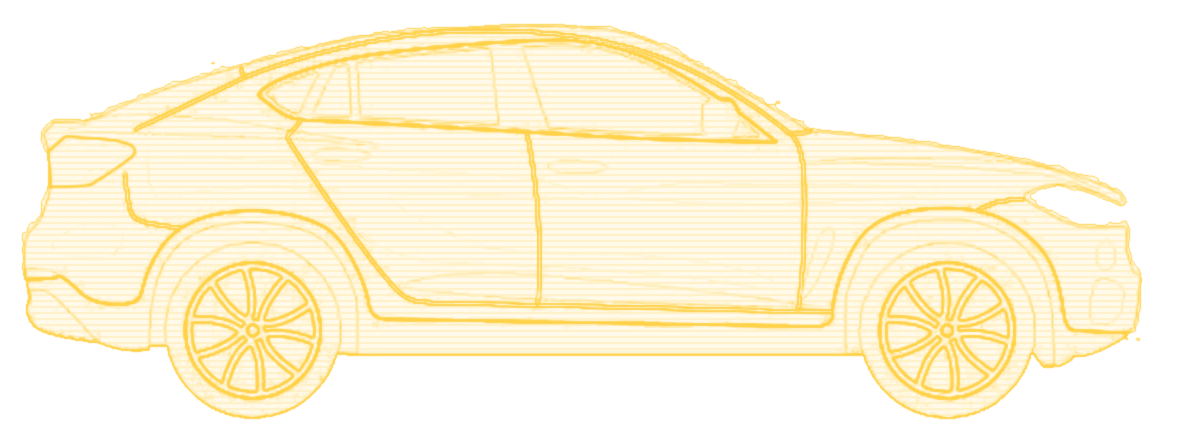
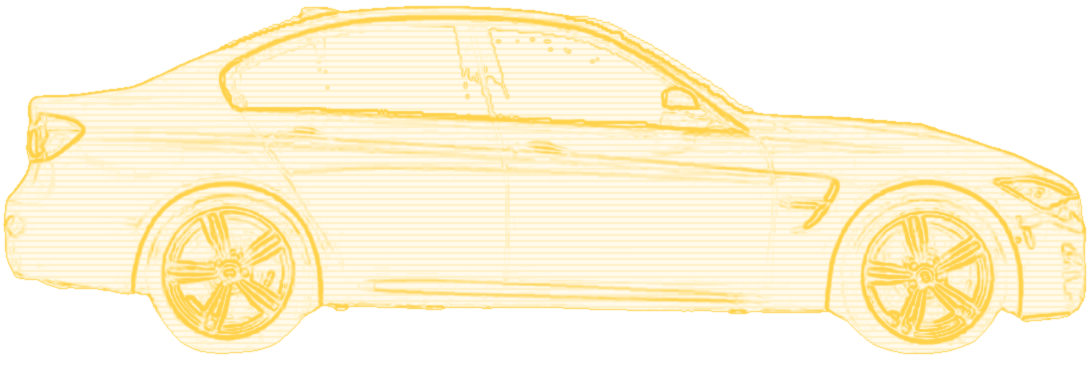
Hero: real car photo instead of the Vexels illustration
Yellow BMW saloon cut out with rembg, mirrored to face right, see-through
glass tinted dark, soft ground shadow; wheel and hotspot positions
re-measured. The Vexels credit line is removed.

diff --git a/src/components/hero/heroScene.ts b/src/components/hero/heroScene.ts
@@ -1,7 +1,7 @@
 /**
  * Three.js hero scene — "live diagnostic scan".
  *
- * The car illustration (public/media/hero-car.png) drives onto a holographic
+ * The car photo (public/media/hero-car.png) drives onto a holographic
  * turntable, wheels turning, and parks. A scanning beam then sweeps across it:
  * behind the beam the car switches to its hologram version (hero-car-holo.png),
  * and diagnostic hotspots ping as the beam reaches them (the engine flags a fault
@@ -19,14 +19,14 @@ export type SceneHandle = { dispose: () => void };
 
 const YELLOW = 0xf5b301;
 
-/** Car image size in scene units (aspect from build-hero-car.mjs: 1180×430). */
+/** Car image size in scene units (aspect from build-hero-car.mjs: 1090×386). */
 const CAR_W = 4.8;
-const CAR_H = CAR_W / (1180 / 430);
+const CAR_H = CAR_W / (1090 / 386);
 /** Image v (0 = top) where the tyres touch the ground. */
-const GROUND_V = 0.955;
+const GROUND_V = 0.909;
 /** Wheel centres and radius, as fractions of the image (u from left, v from top). */
-const WHEELS = [{ u: 0.214, v: 0.756 }, { u: 0.802, v: 0.756 }];
-const WHEEL_R_U = 45 / 590;
+const WHEELS = [{ u: 0.212, v: 0.687 }, { u: 0.843, v: 0.687 }];
+const WHEEL_R_U = 86 / 1090;
 
 /** Image (u, v) → car-local position. */
 const uv = (u: number, v: number, z = 0) => new THREE.Vector3((u - 0.5) * CAR_W, (GROUND_V - v) * CAR_H, z);
@@ -107,11 +107,11 @@ export function createHeroScene(container: HTMLElement, opts: { animate: boolean
   const spotGeo = keep(new THREE.SphereGeometry(0.06, 16, 12));
   const ringGeo = keep(new THREE.RingGeometry(0.09, 0.12, 32));
   const hotspots = ([
-    [0.85, 0.46, true], // engine bay: fault found
-    [0.802, 0.756, false], // front brake
-    [0.44, 0.33, false], // cabin electronics
-    [0.214, 0.756, false], // rear suspension
-    [0.06, 0.68, false], // exhaust
+    [0.92, 0.49, true], // engine bay: fault found
+    [0.843, 0.687, false], // front brake
+    [0.55, 0.21, false], // cabin electronics
+    [0.212, 0.687, false], // rear suspension
+    [0.04, 0.78, false], // exhaust
   ] as const).map(([u, v, fault]) => {
     const color = fault ? 0xff6a1f : 0xffd24a;
     const dotMat = keep(new THREE.MeshBasicMaterial({ color, transparent: true, opacity: 0 }));

diff --git a/src/components/hero/Hero3D.tsx b/src/components/hero/Hero3D.tsx
@@ -76,13 +76,6 @@ export function Hero3D() {
         </div>
       </Animated>
       <div ref={mount} className={`absolute inset-0 transition-opacity duration-700 ${ready ? "opacity-100" : "opacity-0"}`} />
-      {ready && (
-        // Attribution required by the car illustration's licence (see docs/ASSET-LICENSES.md).
-        <p className="absolute bottom-1 right-2 text-[10px] text-metal">
-          Car illustration:{" "}
-          <a href="https://www.vexels.com" target="_blank" rel="noopener noreferrer" className="underline hover:text-brand">Vexels</a>
-        </p>
-      )}
     </div>
   );
 }

diff --git a/docs/ASSET-LICENSES.md b/docs/ASSET-LICENSES.md
@@ -1,17 +1,15 @@
 # Asset Licensing & Attribution
 
 Every visual asset in this project is supplied by the client or created specifically for this site, **except the
-hero car illustration, which is third-party stock from Vexels** (see the first row). No manufacturer logos are used.
+car pictures (hero car and inspection charges cards), which the client supplied from the web with no stated source**.
 
-> **Action needed before launch:** the hero car image was supplied as a small watermarked preview found online
-> (`designed by vexels`). Download the illustration from vexels.com under a licence that covers commercial
-> websites (Vexels' free licence requires attribution; paid plans remove that requirement), replace
-> `assets/source/hero-car.jpg` with the licensed file, adjust `CROP` in `scripts/build-hero-car.mjs` if the
-> framing differs, and run `npm run hero-car`. Keep or remove the on-page credit to match the licence.
+> **Action needed before launch:** confirm the client has the right to use the hero car photo and the inspection
+> car pictures (rows below), or replace them with licensed or owned photos and re-run `npm run hero-car` /
+> `node scripts/build-inspection-cars.mjs`.
 
 | Asset | Location | Source | Licence / status |
 |---|---|---|---|
-| Hero car illustration (side view, yellow coupé SUV) | `assets/source/hero-car.jpg` → `public/media/hero-car.png` (cut-out) and `public/media/hero-car-holo.png` (hologram version), via `scripts/build-hero-car.mjs` | Vexels (vexels.com), supplied by the client as a watermarked preview | **Licence not yet confirmed.** Credited on the page under the hero ("Car illustration: Vexels"). Replace with the licensed download before launch (see note above). |
+| Hero car photo (side view, yellow BMW saloon) | `assets/source/hero-car-photo.jpg` → `hero-car-photo-cut.png` (rembg) → `public/media/hero-car.png` (mirrored, glass tinted, shadow) and `public/media/hero-car-holo.png` (hologram version), via `scripts/build-hero-car.mjs` | Supplied by the client (October 2026); original source not stated | **Licence not confirmed** — looks like a stock/web image. Confirm the client has the right to use it, or replace. Replaces the earlier Vexels illustration (`assets/source/hero-car.jpg`, no longer used). |
 | Workshop photos (12) | `assets/media/*.jpg` → `public/media/*.webp` via `npm run media` | The client's own Instagram posts (@mymechanic.pk), downloaded October 2026 | Client-owned. Used on the client's own website. |
 | Inspection charges car pictures (red SUV, silver sedan, white Yaris, white car with a red gift bow for the New Car card) | `assets/source/inspection-cars/` → `public/inspection/*.webp` via `scripts/build-inspection-cars.mjs` (backgrounds removed with rembg) | Supplied by the client (October 2026); original sources not stated | **Licence not confirmed** — they look like stock/web images. Confirm the client has the right to use them, or replace. |
 | New-car (ribbon) picture — **not used** | `assets/source/inspection-cars/new-car-pngtree-watermarked.png` | pngtree free preview with its watermark | Not published. Needs a licensed, watermark-free download from pngtree before use; the New Car card uses a different supplied ribbon-car photo instead. |

diff --git a/docs/CLIENT-CHECKLIST.md b/docs/CLIENT-CHECKLIST.md
@@ -18,7 +18,7 @@ Google reviews, 12 workshop photos from Instagram, "EFI & Hybrid Specialists", a
 | 3 | **Branch 2 hours**, if different from Branch 1 | The site shows one set of hours for both branches | `client.hours` |
 | 4 | **Services offered**: all 16 service pages were kept as they are, as requested. Hide any that My Mechanic.pk does not offer | Service pages must be accurate | `src/data/services.ts` (set `enabled: false` to hide) |
 | 5 | **Domain name** (for example `mymechanic.pk`) | Canonical URLs, sitemap, social previews | `NEXT_PUBLIC_SITE_URL` env var or `client.siteUrl` |
-| 6 | **Hero car image licence**: the car is a Vexels stock illustration supplied as a watermarked preview. Get the licensed download and re-run `npm run hero-car` | Using unlicensed stock on a business site is a copyright risk | `assets/source/hero-car.jpg`, see `docs/ASSET-LICENSES.md` |
+| 6 | **Car picture licences**: the hero car photo and the inspection-card car pictures were supplied from the web with no stated source. Confirm the right to use them or replace them | Using unlicensed images on a business site is a copyright risk | `assets/source/hero-car-photo.jpg`, `assets/source/inspection-cars/`, see `docs/ASSET-LICENSES.md` |
 | 7 | **Workshop standards and values wording** (About page) | Must describe what the workshop actually does | `about.standards`, `about.values` in `src/data/content.ts` |
 | 7a | **Free scanning offer**: confirm the terms (one per vehicle, book ahead, repairs quoted separately) and the end date, 31 December 2026 | The terms are published on `/special-offers` | `client.offer` (set `active: false` to switch the banner and page off) |
 
